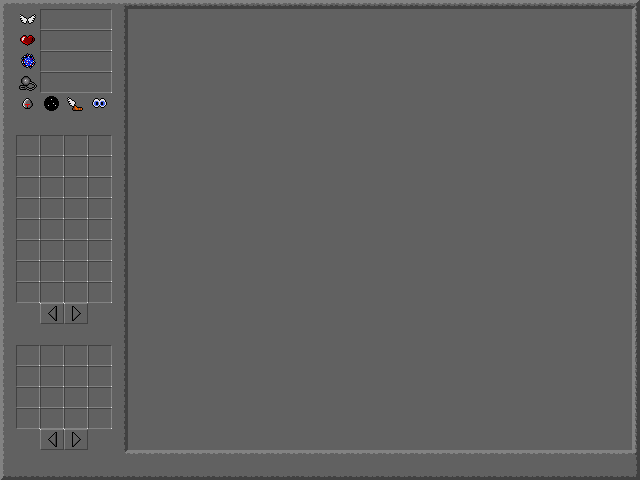
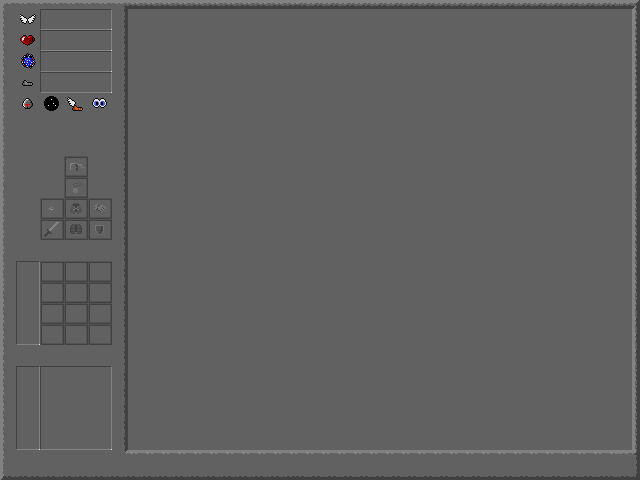
Refactored inventory

diff --git a/source/hero.js b/source/hero.js
@@ -3,6 +3,9 @@ RM.Hero = function (type, x, y, ai) {
   'use strict';
   this.init(type, x, y, ai);
   this.fov = [];
+  this.visibleItems = [];
+  this.inventoryY = 0;
+  this.updateVisibleItems();
 };
 RM.Hero.extend(RM.Actor);
 
@@ -25,6 +28,24 @@ RM.Hero.prototype.computeFOV = function (x, y) {
   });
 };
 
+RM.Hero.prototype.updateVisibleItems = function () {
+  'use strict';
+  var x, y, p;
+  this.visibleItems = [];
+  for (y = this.inventoryY; y < this.inventoryY + 4; y += 1) {
+    for (x = 0; x < 3; x += 1) {
+      p = this.inventory.getPoint(x, y, 1);
+      if (p) {
+        this.visibleItems.push({
+          x: x,
+          y: y,
+          tile: p.tile
+        });
+      }
+    }
+  }
+};
+
 /**
  * Returns the tile coordinates of the data stored in an arbitrarily defined
  * point of the map.
@@ -39,6 +60,28 @@ RM.Hero.prototype.getTile = function (x, y) {
   var i, mp;
   for (i = 2; i >= 0; i -= 1) {
     mp = RM.map.getPoint(x, y, i);
+    if (mp) {
+      return mp.tile;
+    }
+  }
+  return null;
+};
+
+
+/**
+ * Returns the tile coordinates of the data stored in an arbitrarily defined
+ * point of the map.
+ * @param   {String} p The coordinates of the point separated with commas,
+ *                   or the first coordinate of the point, followed by the
+ *                   others as additional arguments.
+ * @returns {Object} The tile coordinates of the object stored in the
+ *                   specified point of the map.
+ */
+RM.Hero.prototype.getItemTile = function (x, y) {
+  'use strict';
+  var i, mp;
+  for (i = 2; i >= 0; i -= 1) {
+    this.inventory.getPoint(x, y, i);
     if (mp) {
       return mp.tile;
     }

diff --git a/source/actor.js b/source/actor.js
@@ -32,18 +32,18 @@ RM.Actor.prototype.init = function (type, x, y, ai) {
   if (type.inventory) {
     for (i = 0; i < type.inventory.length; i += 1) {
       this.inventory.setPoint(new RM.Item(RM.items[type.inventory[i]]),
-                             i % 4, Math.floor(i / 4), 1);
+                             i % 3, Math.floor(i / 3), 1);
       this.burden += RM.items[type.inventory[i]].weight;
     }
   }
   this.used = {
     weapon: {
-      x: this.type.weapon % 4,
-      y: Math.floor(this.type.weapon / 4)
+      x: this.type.weapon % 3,
+      y: Math.floor(this.type.weapon / 3)
     },
     cloak: {
-      x: this.type.cloak % 4,
-      y: Math.floor(this.type.weapon / 4)
+      x: this.type.cloak % 3,
+      y: Math.floor(this.type.weapon / 3)
     }
   };
 };

diff --git a/source/ingamescreen.js b/source/ingamescreen.js
@@ -65,6 +65,14 @@ RM.IngameScreen = function (background) {
           x: x - 10 + RM.currentHero.x,
           y: y - 10 + RM.currentHero.y
         });
+      }),
+    new RM.Frame(41, 261, 72, 84,
+      new RM.Image(0, 49, 72, 84, RM.uiObjectsImage),
+      function () {
+        return RM.currentHero.visibleItems;
+      },
+      function (x, y) {
+
       })
   ];
 };

diff --git a/source/ui/frame.js b/source/ui/frame.js
@@ -16,7 +16,6 @@ RM.Frame = function (x, y, width, height, background, content, handler) {
   this.init(x, y, width, height, background);
   this.content = content;
   this.handler = handler;
-  this.center(0, 0);
   this.selected = {};
 };
 RM.Frame.extend(RM.UIObject);
